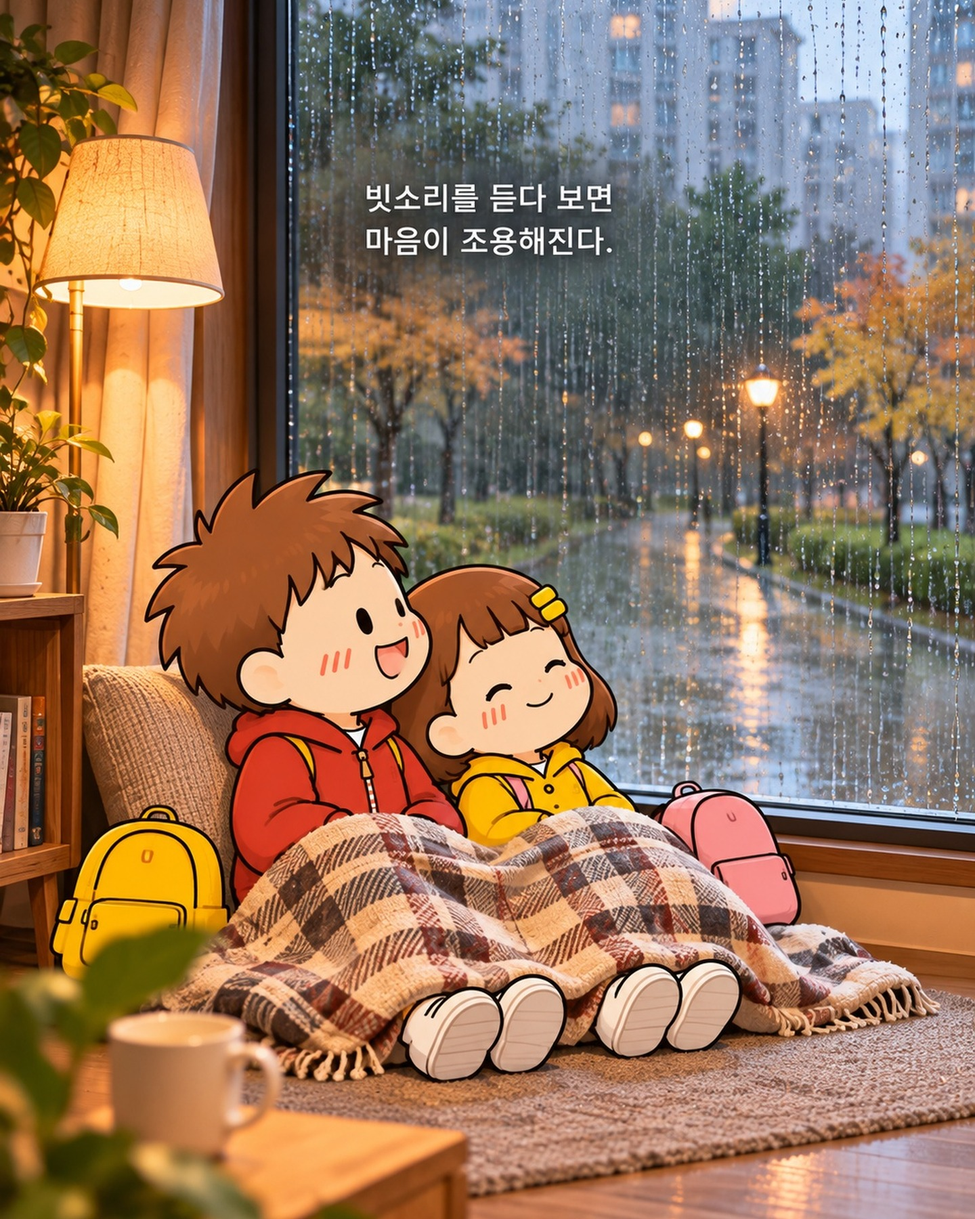
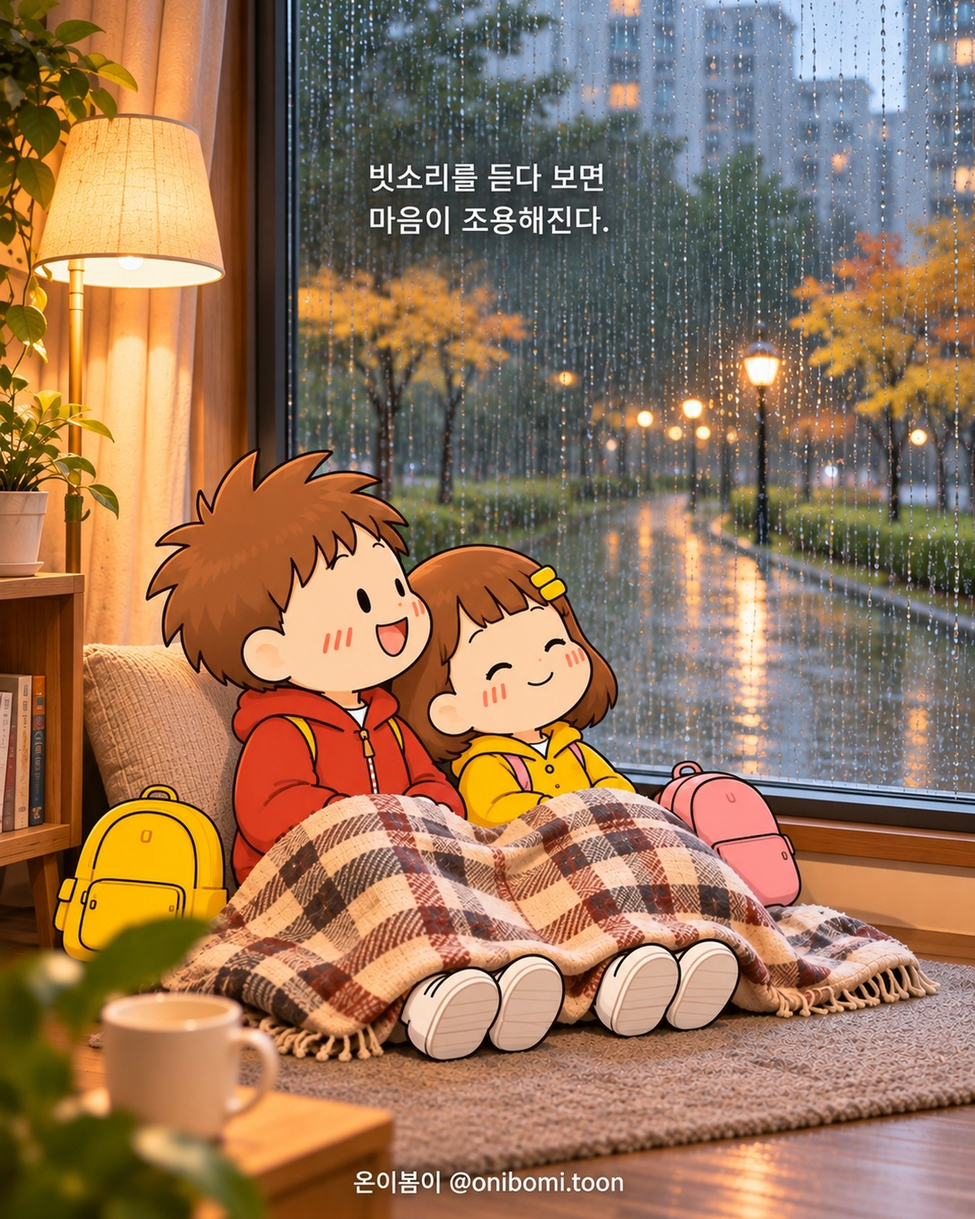
12/02 그림 교체(채널명 포함), 아래 채널명 살리게 cover_focus, 프롬프트 글귀 크기·채널명 위치를 픽셀로 명시
Claude-Session: https://claude.ai/code/session_013eU9upHqCkSKw6QAxNnjDy

diff --git a/docs/gongam_guide.md b/docs/gongam_guide.md
@@ -70,12 +70,12 @@
 "(첫째 줄)"
 "(둘째 줄)"
 - 폰트: 흰색의 단정한 고딕체(본고딕 Medium 느낌), 중간 굵기, 외곽선·장식 없이 아주 옅은 그림자만
-- 크기: 첫 번째 이미지 글귀보다 20% 작게, 아주 작고 차분하게. 글자 높이는 화면 세로의 약 1.6% (8글자 줄이 화면 가로의 약 1/5이 되는 크기). 줄이 길어도 크기는 그대로
+- 크기: 첫 번째 이미지 글자 크기를 따라 하지 말고 확실히 더 작게. 글자 높이는 화면 세로의 1.6% (세로 1448px 그림이면 글자 하나 높이 약 23px), 8글자 줄이 화면 가로의 1/5 정도. 줄이 길어도 크기는 그대로
 - 위치: 가로 가운데 정렬, 첫 줄이 위에서 약 19% 지점, 두 줄 사이 간격은 글자 높이의 절반 정도
 - 맞춤법·띄어쓰기·문장부호 그대로, 아래 채널명 말고 다른 글자·숫자·간판·워터마크는 넣지 마
 
 [채널명]
-이미지 맨 아래 가운데(위에서 약 93% 지점)에 아래 채널명을 정확히 그대로 한 줄로 써줘.
+이미지 맨 아래 가운데, 위에서 92% 지점(아래 끝에서 8% 위, 세로 1448px 그림이면 아래에서 약 115px 위)에 아래 채널명을 정확히 그대로 한 줄로 써줘. 더 아래로 내리지 마.
 "온이봄이 @onibomi.toon"
 - 위 글귀와 같은 흰색 고딕체, 중간 굵기, 아주 옅은 그림자
 - 크기는 위 글귀보다 작게: 글자 높이 화면 세로의 약 1.2%
@@ -100,8 +100,8 @@
 - (팔로우 카드 기능은 코드에 남아 있음: `config.yml` 에 `image_follow_card` 를 다시 넣으면 2장째로 붙는다.)
 
 ### 하단 채널명 (GPT가 그림 안에 넣음)
-프롬프트 `[채널명]` 블록으로 **"온이봄이 @onibomi.toon"** 을 맨 아래 가운데(위에서 약 93%), 글자 높이 세로 1.2%, 흰색 고딕체로 넣는다.
-3:4 그림을 4:5로 맞출 때 위아래가 약 3%씩 잘리므로 93% 지점이면 남는다. 철자(onibomi.toon)가 틀리면 글자만 다시 요청한다.
+프롬프트 `[채널명]` 블록으로 **"온이봄이 @onibomi.toon"** 을 맨 아래 가운데(위에서 92%), 글자 높이 세로 1.2%, 흰색 고딕체로 넣는다.
+3:4 그림을 4:5로 맞출 때 위아래가 약 3%씩 잘린다. GPT가 더 아래(95% 이상)에 넣으면 post.yml 에 `cover_focus: "0.5,0.75"` 를 넣어 위를 더 자르고 아래를 살린다. 철자(onibomi.toon)가 틀리면 글자만 다시 요청한다.
 (프로그램이 넣는 채널명 기능 `image_watermark` 는 꺼 두었다. 다시 켜면 두 번 찍히니 주의.)
 
 ### 글귀 고정값 (변경 금지, 2026-11-22 확정)

diff --git a/drafts/gongam_warm_cup/PROMPT.md b/drafts/gongam_warm_cup/PROMPT.md
@@ -26,12 +26,12 @@
 "오늘 같은 날엔"
 "따뜻한 한 잔이면 충분해."
 - 폰트: 흰색의 단정한 고딕체(본고딕 Medium 느낌), 중간 굵기, 외곽선·장식 없이 아주 옅은 그림자만
-- 크기: 첫 번째 이미지 글귀보다 20% 작게, 아주 작고 차분하게. 글자 높이는 화면 세로의 약 1.6% (8글자 줄이 화면 가로의 약 1/5이 되는 크기). 줄이 길어도 크기는 그대로
+- 크기: 첫 번째 이미지 글자 크기를 따라 하지 말고 확실히 더 작게. 글자 높이는 화면 세로의 1.6% (세로 1448px 그림이면 글자 하나 높이 약 23px), 8글자 줄이 화면 가로의 1/5 정도. 줄이 길어도 크기는 그대로
 - 위치: 가로 가운데 정렬, 첫 줄이 위에서 약 19% 지점, 두 줄 사이 간격은 글자 높이의 절반 정도
 - 맞춤법·띄어쓰기·문장부호 그대로, 아래 채널명 말고 다른 글자·숫자·간판·워터마크는 넣지 마
 
 [채널명]
-이미지 맨 아래 가운데(위에서 약 93% 지점)에 아래 채널명을 정확히 그대로 한 줄로 써줘.
+이미지 맨 아래 가운데, 위에서 92% 지점(아래 끝에서 8% 위, 세로 1448px 그림이면 아래에서 약 115px 위)에 아래 채널명을 정확히 그대로 한 줄로 써줘. 더 아래로 내리지 마.
 "온이봄이 @onibomi.toon"
 - 위 글귀와 같은 흰색 고딕체, 중간 굵기, 아주 옅은 그림자
 - 크기는 위 글귀보다 작게: 글자 높이 화면 세로의 약 1.2%

diff --git a/drafts/gongam_rain_sound/PROMPT.md b/drafts/gongam_rain_sound/PROMPT.md
@@ -26,12 +26,12 @@
 "빗소리를 듣다 보면"
 "마음이 조용해진다."
 - 폰트: 흰색의 단정한 고딕체(본고딕 Medium 느낌), 중간 굵기, 외곽선·장식 없이 아주 옅은 그림자만
-- 크기: 첫 번째 이미지 글귀보다 20% 작게, 아주 작고 차분하게. 글자 높이는 화면 세로의 약 1.6% (8글자 줄이 화면 가로의 약 1/5이 되는 크기). 줄이 길어도 크기는 그대로
+- 크기: 첫 번째 이미지 글자 크기를 따라 하지 말고 확실히 더 작게. 글자 높이는 화면 세로의 1.6% (세로 1448px 그림이면 글자 하나 높이 약 23px), 8글자 줄이 화면 가로의 1/5 정도. 줄이 길어도 크기는 그대로
 - 위치: 가로 가운데 정렬, 첫 줄이 위에서 약 19% 지점, 두 줄 사이 간격은 글자 높이의 절반 정도
 - 맞춤법·띄어쓰기·문장부호 그대로, 아래 채널명 말고 다른 글자·숫자·간판·워터마크는 넣지 마
 
 [채널명]
-이미지 맨 아래 가운데(위에서 약 93% 지점)에 아래 채널명을 정확히 그대로 한 줄로 써줘.
+이미지 맨 아래 가운데, 위에서 92% 지점(아래 끝에서 8% 위, 세로 1448px 그림이면 아래에서 약 115px 위)에 아래 채널명을 정확히 그대로 한 줄로 써줘. 더 아래로 내리지 마.
 "온이봄이 @onibomi.toon"
 - 위 글귀와 같은 흰색 고딕체, 중간 굵기, 아주 옅은 그림자
 - 크기는 위 글귀보다 작게: 글자 높이 화면 세로의 약 1.2%

diff --git a/drafts/gongam_well_done/PROMPT.md b/drafts/gongam_well_done/PROMPT.md
@@ -26,12 +26,12 @@
 "오늘도 참 애썼어."
 "그걸로 충분해."
 - 폰트: 흰색의 단정한 고딕체(본고딕 Medium 느낌), 중간 굵기, 외곽선·장식 없이 아주 옅은 그림자만
-- 크기: 첫 번째 이미지 글귀보다 20% 작게, 아주 작고 차분하게. 글자 높이는 화면 세로의 약 1.6% (8글자 줄이 화면 가로의 약 1/5이 되는 크기). 줄이 길어도 크기는 그대로
+- 크기: 첫 번째 이미지 글자 크기를 따라 하지 말고 확실히 더 작게. 글자 높이는 화면 세로의 1.6% (세로 1448px 그림이면 글자 하나 높이 약 23px), 8글자 줄이 화면 가로의 1/5 정도. 줄이 길어도 크기는 그대로
 - 위치: 가로 가운데 정렬, 첫 줄이 위에서 약 19% 지점, 두 줄 사이 간격은 글자 높이의 절반 정도
 - 맞춤법·띄어쓰기·문장부호 그대로, 아래 채널명 말고 다른 글자·숫자·간판·워터마크는 넣지 마
 
 [채널명]
-이미지 맨 아래 가운데(위에서 약 93% 지점)에 아래 채널명을 정확히 그대로 한 줄로 써줘.
+이미지 맨 아래 가운데, 위에서 92% 지점(아래 끝에서 8% 위, 세로 1448px 그림이면 아래에서 약 115px 위)에 아래 채널명을 정확히 그대로 한 줄로 써줘. 더 아래로 내리지 마.
 "온이봄이 @onibomi.toon"
 - 위 글귀와 같은 흰색 고딕체, 중간 굵기, 아주 옅은 그림자
 - 크기는 위 글귀보다 작게: 글자 높이 화면 세로의 약 1.2%

diff --git a/drafts/gongam_by_your_side/PROMPT.md b/drafts/gongam_by_your_side/PROMPT.md
@@ -26,12 +26,12 @@
 "말하지 않아도,"
 "곁에 있을게."
 - 폰트: 흰색의 단정한 고딕체(본고딕 Medium 느낌), 중간 굵기, 외곽선·장식 없이 아주 옅은 그림자만
-- 크기: 첫 번째 이미지 글귀보다 20% 작게, 아주 작고 차분하게. 글자 높이는 화면 세로의 약 1.6% (8글자 줄이 화면 가로의 약 1/5이 되는 크기). 줄이 길어도 크기는 그대로
+- 크기: 첫 번째 이미지 글자 크기를 따라 하지 말고 확실히 더 작게. 글자 높이는 화면 세로의 1.6% (세로 1448px 그림이면 글자 하나 높이 약 23px), 8글자 줄이 화면 가로의 1/5 정도. 줄이 길어도 크기는 그대로
 - 위치: 가로 가운데 정렬, 첫 줄이 위에서 약 19% 지점, 두 줄 사이 간격은 글자 높이의 절반 정도
 - 맞춤법·띄어쓰기·문장부호 그대로, 아래 채널명 말고 다른 글자·숫자·간판·워터마크는 넣지 마
 
 [채널명]
-이미지 맨 아래 가운데(위에서 약 93% 지점)에 아래 채널명을 정확히 그대로 한 줄로 써줘.
+이미지 맨 아래 가운데, 위에서 92% 지점(아래 끝에서 8% 위, 세로 1448px 그림이면 아래에서 약 115px 위)에 아래 채널명을 정확히 그대로 한 줄로 써줘. 더 아래로 내리지 마.
 "온이봄이 @onibomi.toon"
 - 위 글귀와 같은 흰색 고딕체, 중간 굵기, 아주 옅은 그림자
 - 크기는 위 글귀보다 작게: 글자 높이 화면 세로의 약 1.2%
